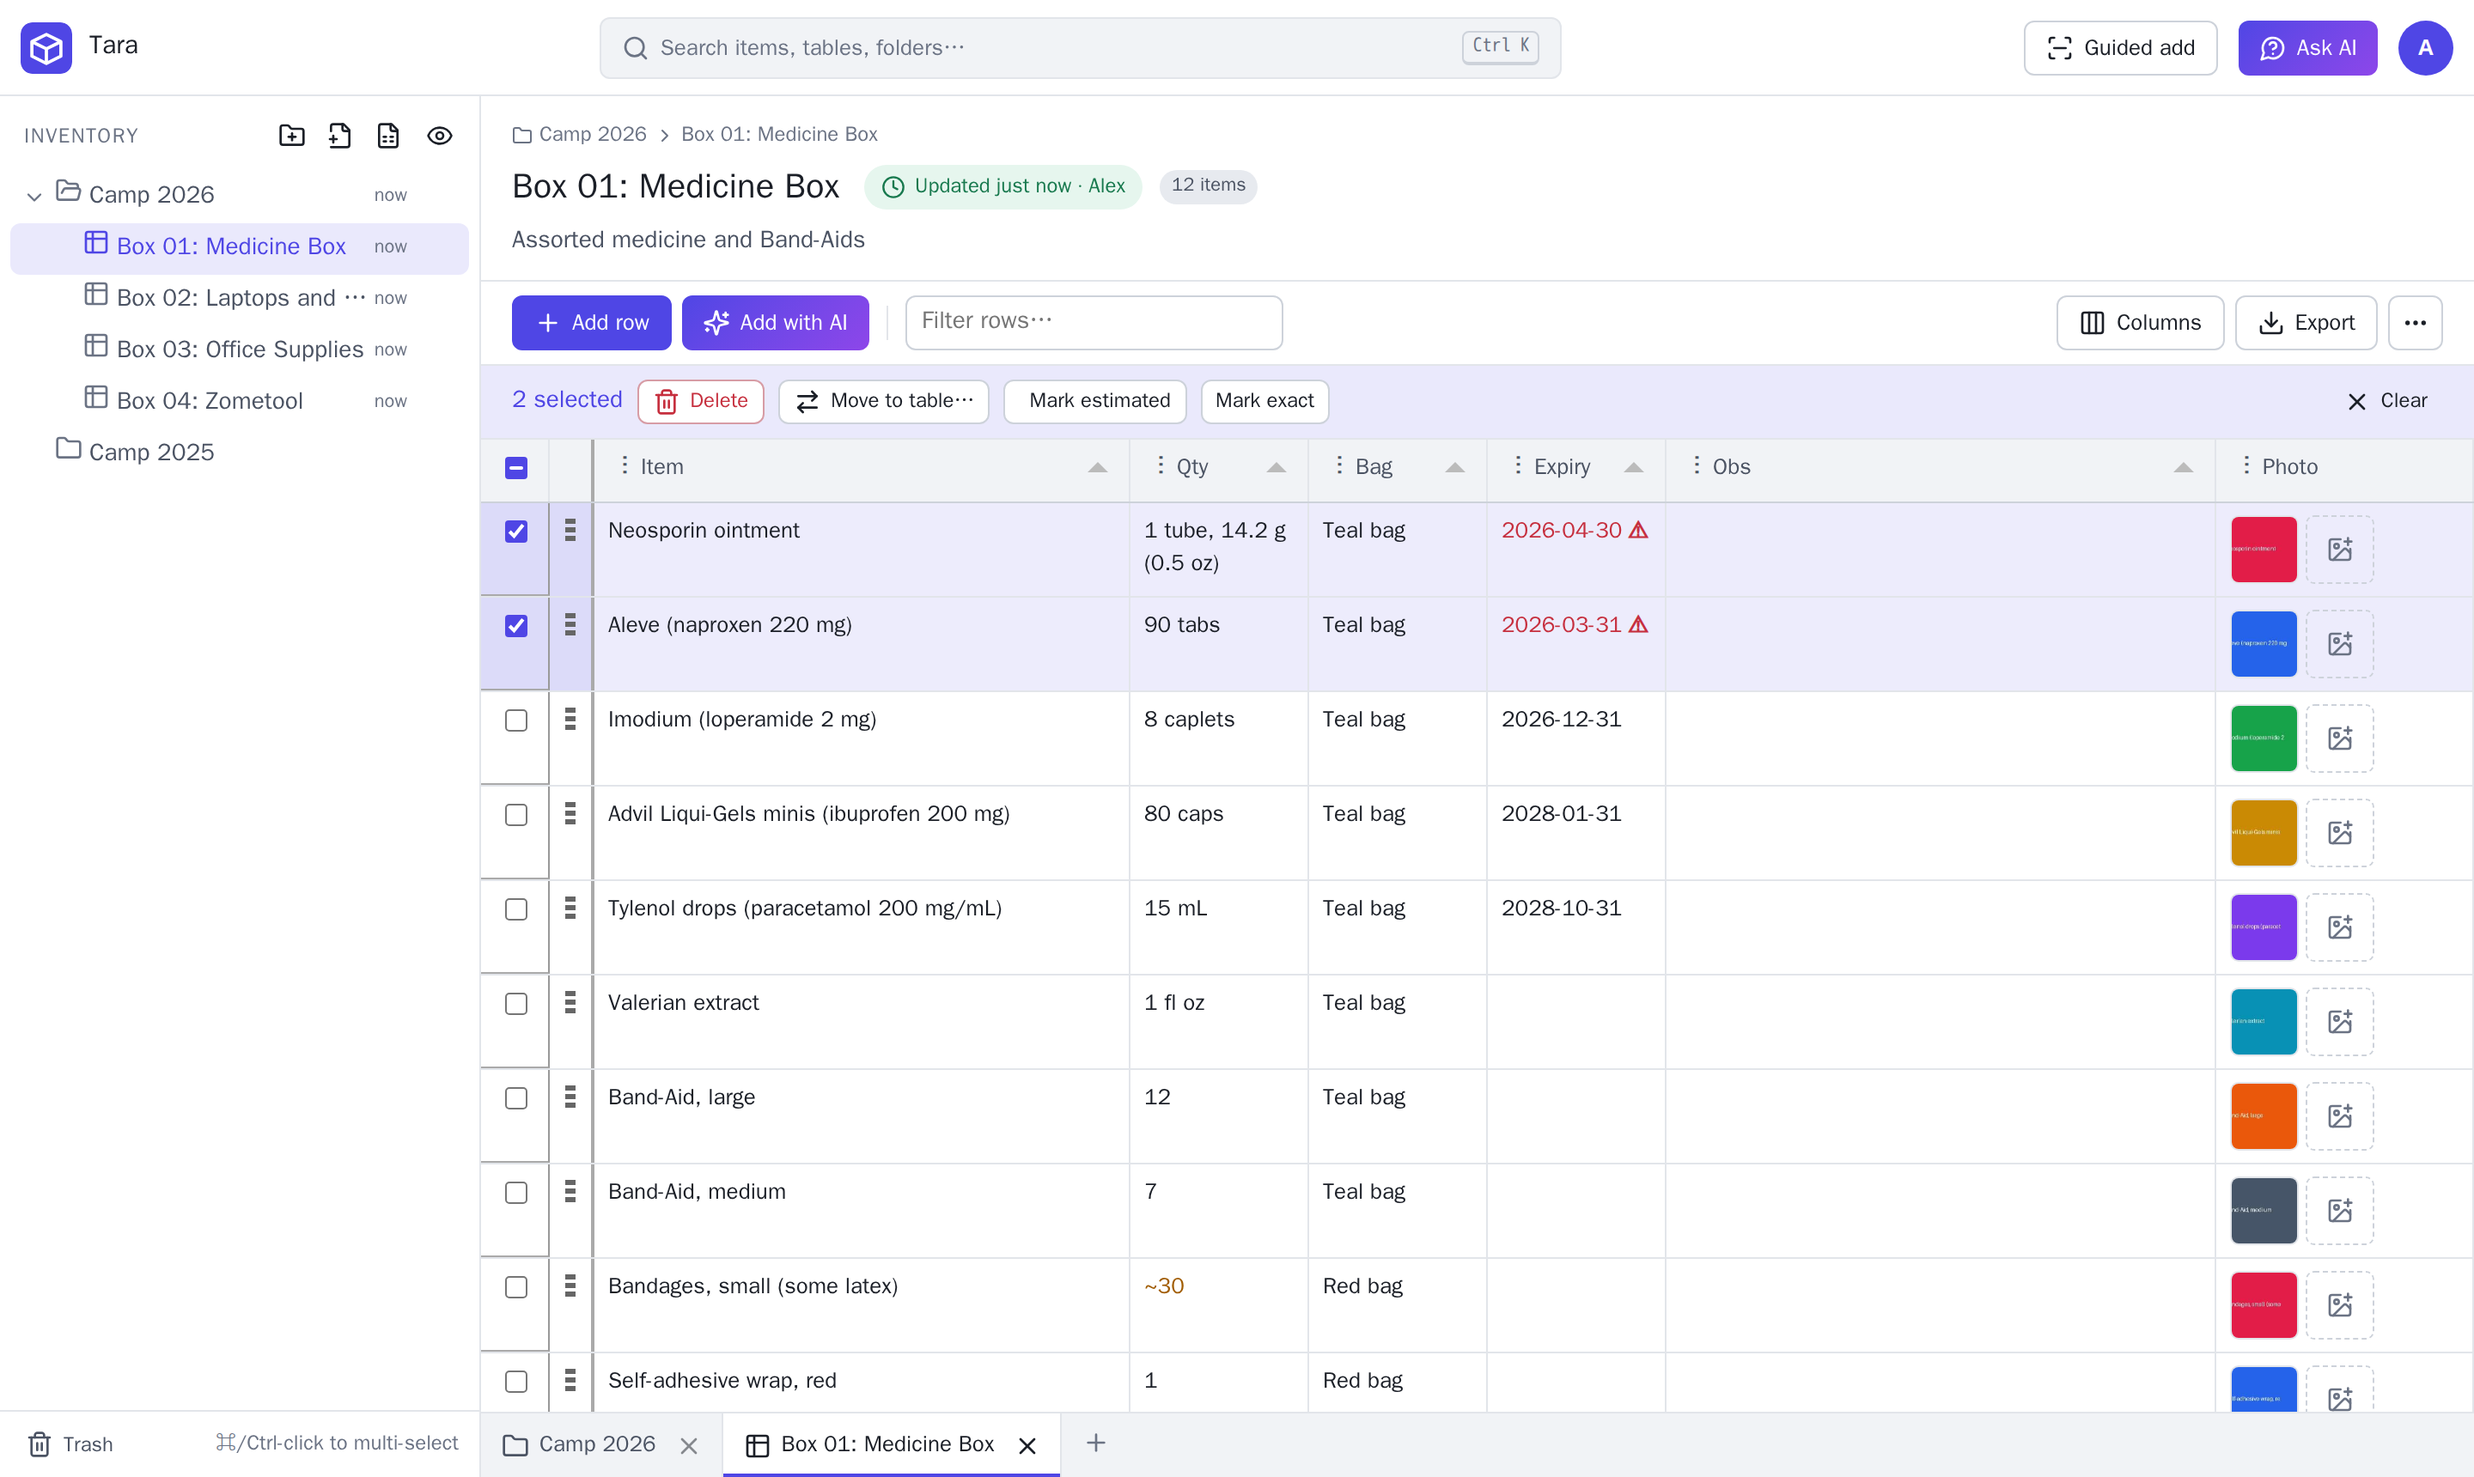
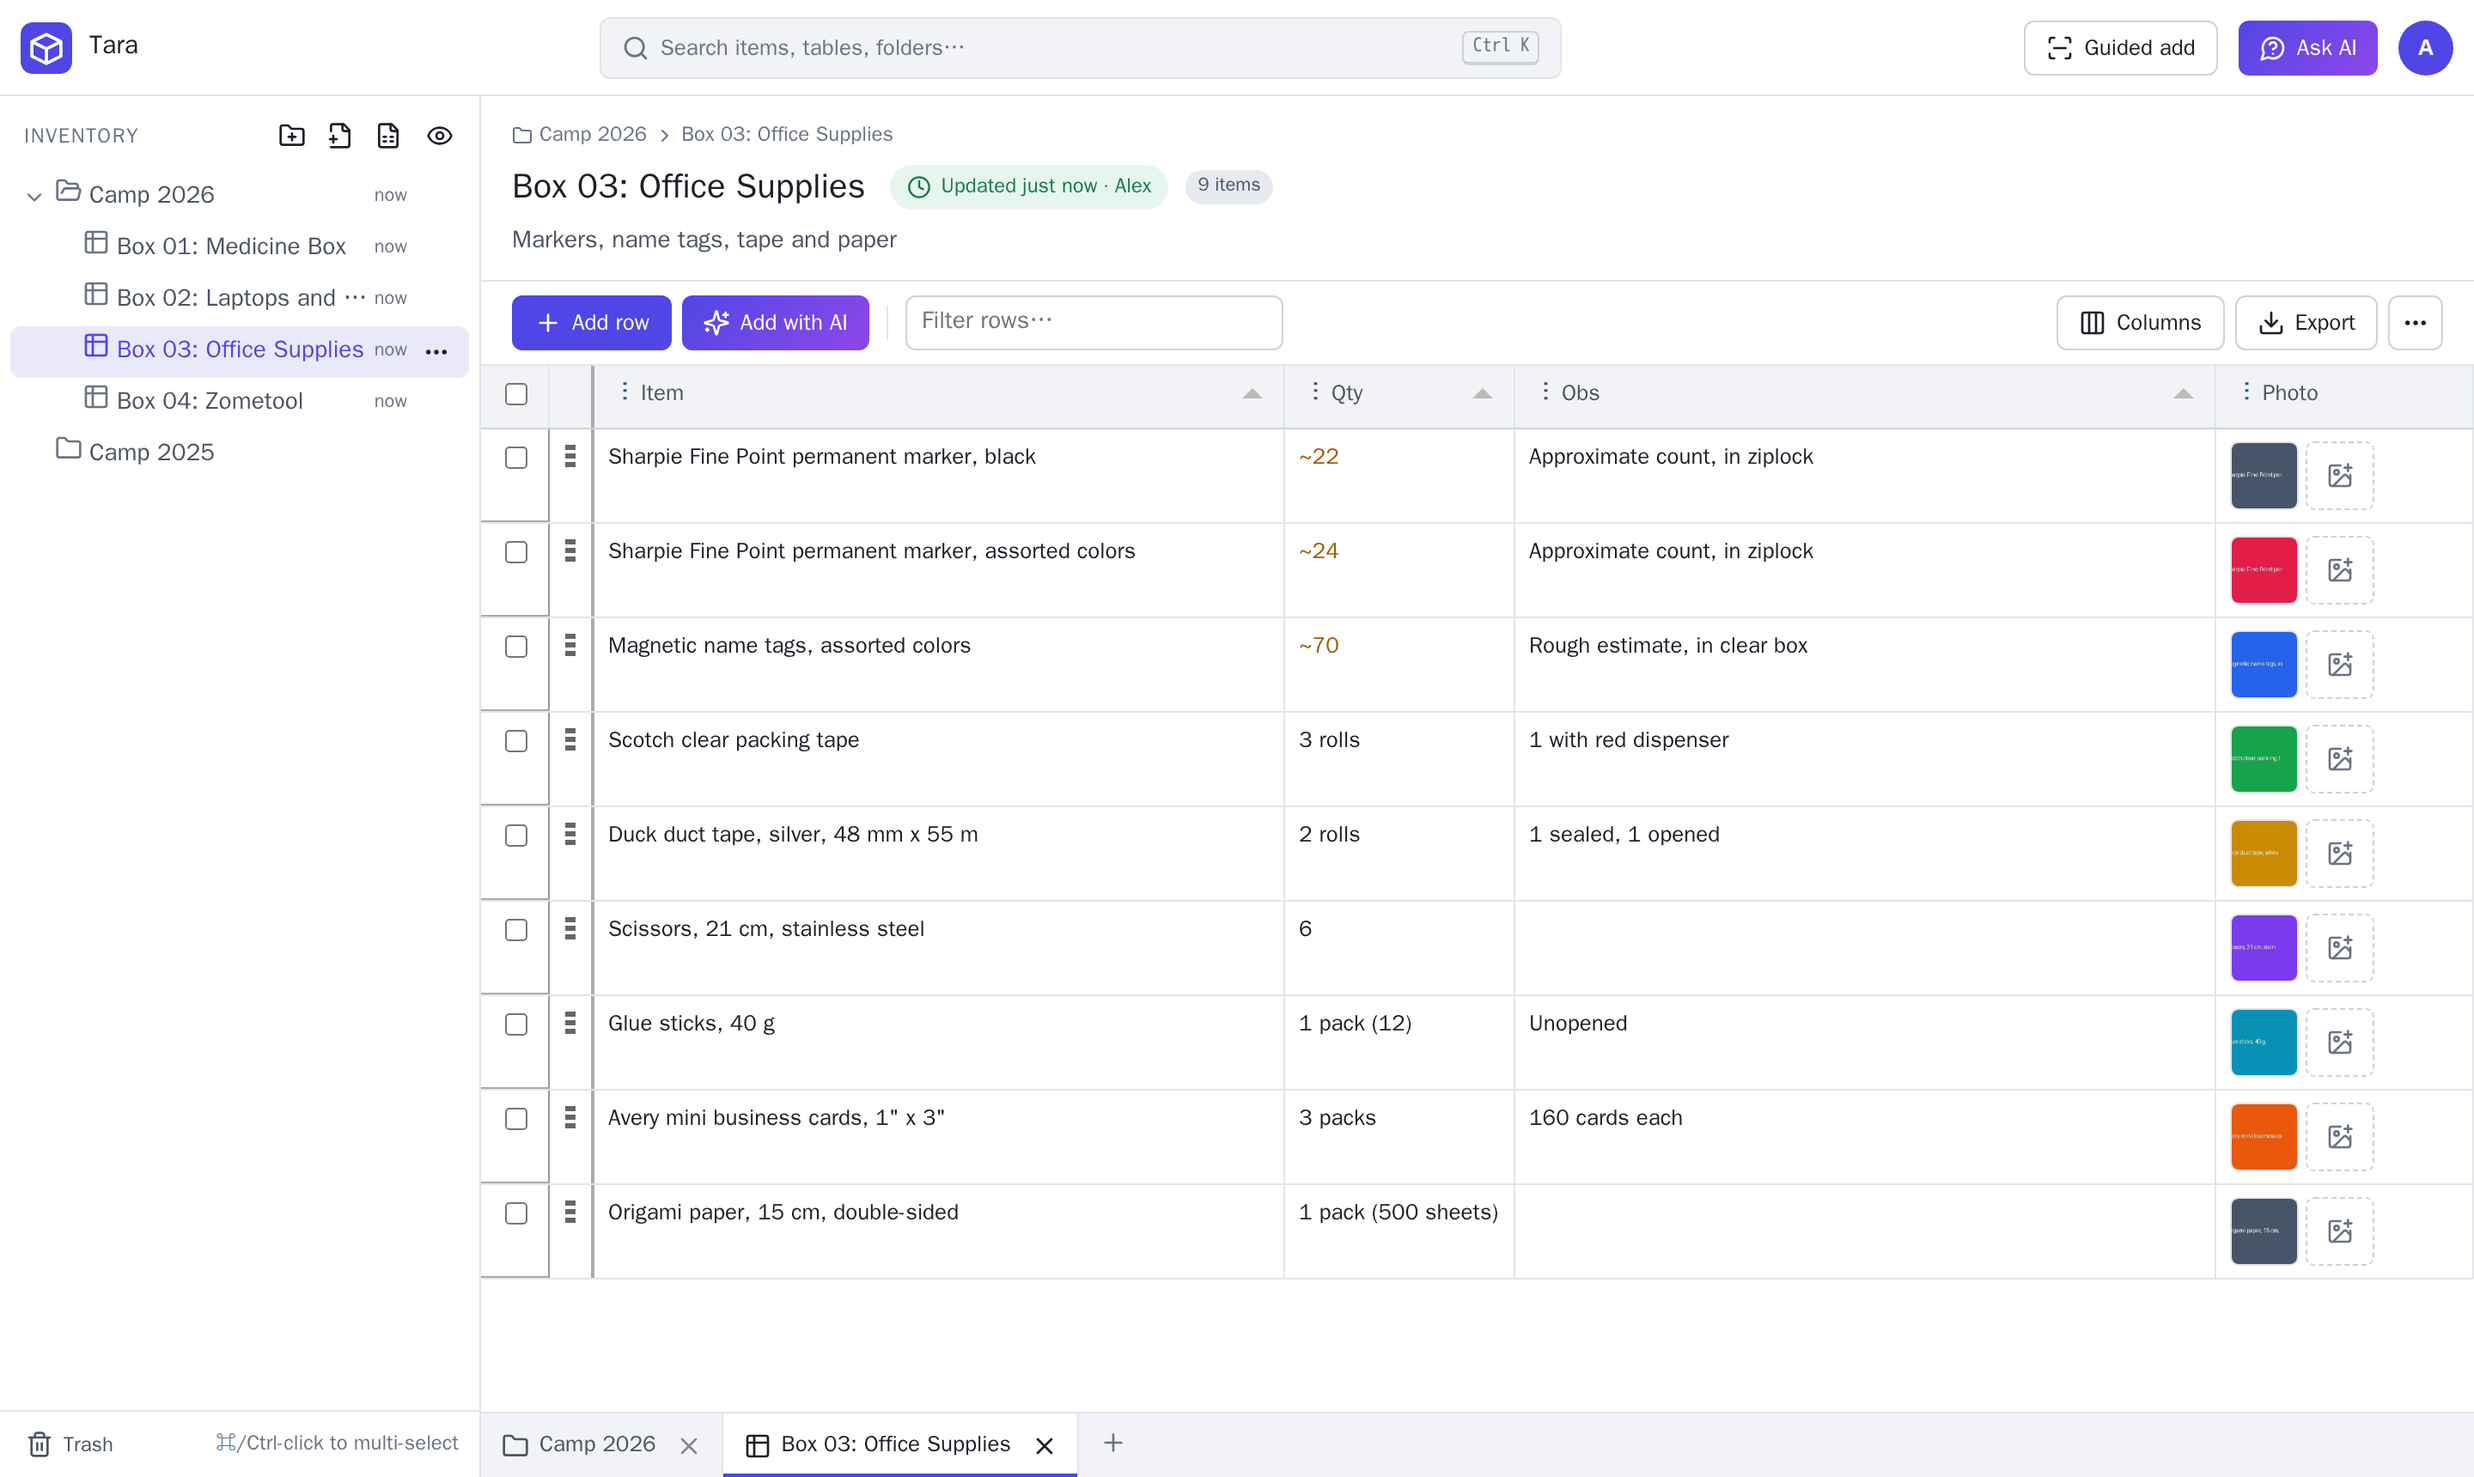
README: use the office supplies box for the screenshot

diff --git a/tests/sample_workbook.py b/tests/sample_workbook.py
@@ -47,12 +47,18 @@ SHEETS = [
         ],
     },
     {
-        "sheet": "Box 03 Office Supplies", "name": "Box 03: Office Supplies", "summary": "Markers and tape",
+        "sheet": "Box 03 Office Supplies", "name": "Box 03: Office Supplies", "summary": "Markers, name tags, tape and paper",
         "header": ["Item", "Qty", "Obs", "Photo"],
         "rows": [
             ["Sharpie Fine Point permanent marker, black", "~22", "Approximate count, in ziplock"],
+            ["Sharpie Fine Point permanent marker, assorted colors", "~24", "Approximate count, in ziplock"],
+            ["Magnetic name tags, assorted colors", "~70", "Rough estimate, in clear box"],
             ["Scotch clear packing tape", "3 rolls", "1 with red dispenser"],
             ["Duck duct tape, silver, 48 mm x 55 m", "2 rolls", "1 sealed, 1 opened"],
+            ["Scissors, 21 cm, stainless steel", "6", ""],
+            ["Glue sticks, 40 g", "1 pack (12)", "Unopened"],
+            ["Avery mini business cards, 1\" x 3\"", "3 packs", "160 cards each"],
+            ["Origami paper, 15 cm, double-sided", "1 pack (500 sheets)", ""],
         ],
     },
     {

diff --git a/e2e/readme_screenshot.py b/e2e/readme_screenshot.py
@@ -27,11 +27,8 @@ with sync_playwright() as p:
         "folder_id": str(f["id"])})
     page.reload()
     page.click('.node.folder:has-text("Camp 2026")')
-    page.click('.node.table:has-text("Medicine")')
+    page.click('.node.table:has-text("Office")')
     page.wait_for_selector(".view:not([hidden]) .tabulator-row")
-    rows = page.locator(".view:not([hidden]) .tabulator-row")
-    rows.nth(0).locator(".tabulator-row-header").first.click()
-    rows.nth(1).locator(".tabulator-row-header").first.click()
     page.wait_for_timeout(600)
     page.screenshot(path="docs/screenshot.png")
     print("saved docs/screenshot.png")

diff --git a/README.md b/README.md
@@ -6,7 +6,7 @@ Spreadsheet-style tables organised in folders, items catalogued from photos by a
 and search that understands meaning. Built for SigmaCamp Brasil's boxes of camp materials, but works
 for any physical inventory.
 
-![Tara: folders in the sidebar, a table of items with photos, expiry dates and estimated quantities](docs/screenshot.png)
+![Tara: folders in the sidebar and a box of office supplies with photos and estimated quantities](docs/screenshot.png)
 
 - **Tables in nested folders**: sidebar tree, spreadsheet-like tabs, inline editing, custom columns
   (text, number, date, checkbox, choice list, link). Quantities can be exact or estimated (`~75`, `3 rolls`, `1.2 kg`).
